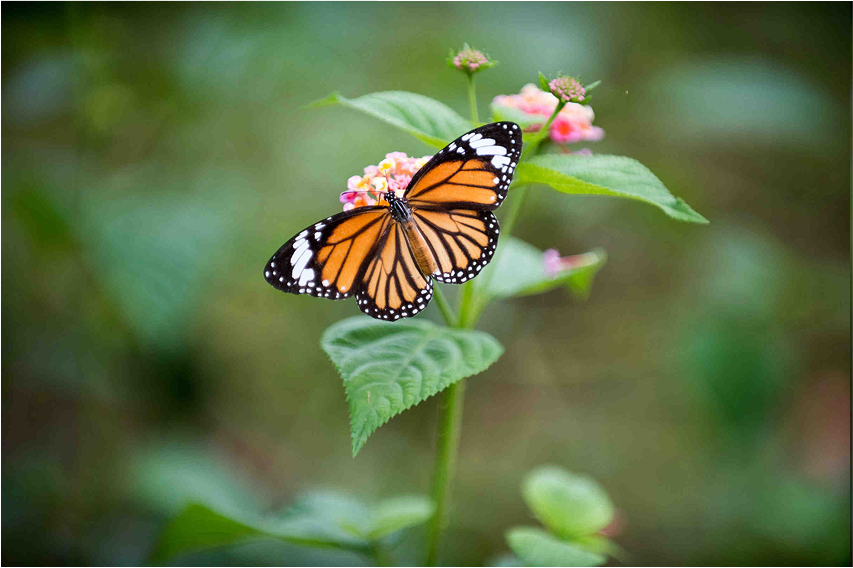
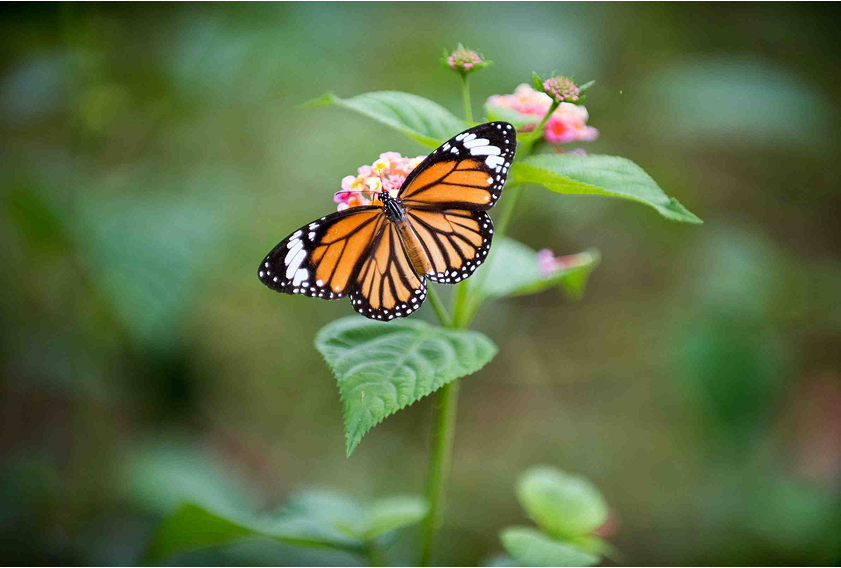
Adjust CSS

diff --git a/src/components/Header/Header.css b/src/components/Header/Header.css
@@ -8,6 +8,6 @@
 .main-header__banner {
   height: 5vh;
   width: 100%;
-  object-position: 40% 40%;
+  object-position: 40% 35%;
   object-fit: cover;
 }
